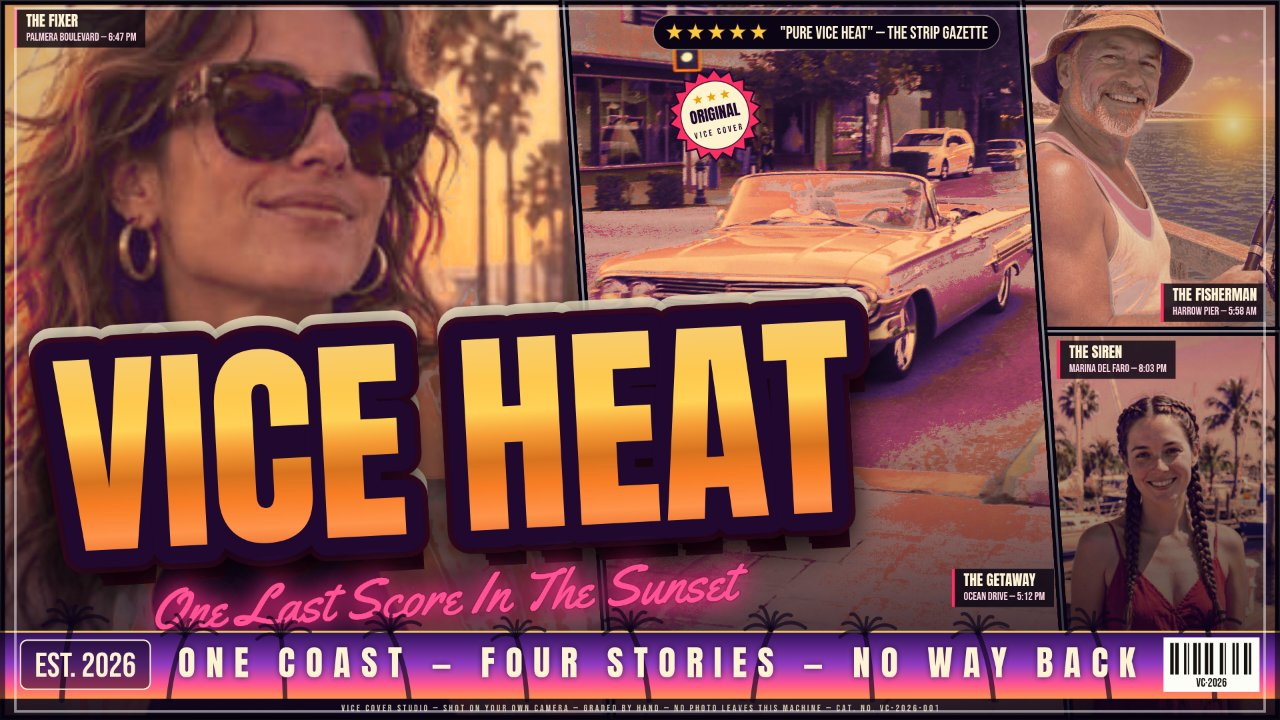
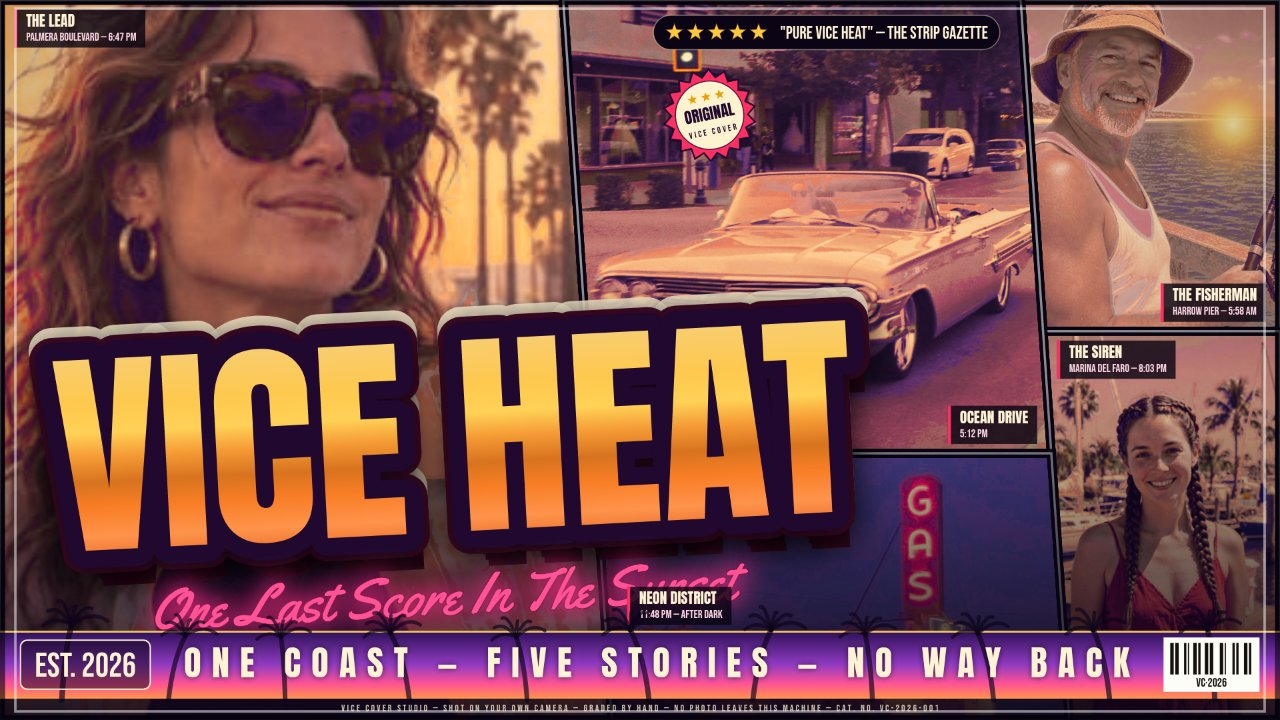
Round 49: Cast Cover gains its fifth panel — the neon GAS station returns
The middle column splits at 680/1080: cruiser above, neon below.
The GAS blade sign is framed at the neon panel's right (scale 1.0),
clear of the title's last letters, and reads whole; the district
chip rides the panel's lower left, above the banner strip.
The cruiser's Cast grade dose halves (0.5): body detail measures
above the round-46 Grid render on local contrast and midband
detail share. Chips: heroine THE LEAD, cruiser OCEAN DRIVE —
5:12 PM (place/time, no role on a scene panel); banner now
ONE COAST — FIVE STORIES — NO WAY BACK. All skin gates hold at
their round-48 numbers; Grid renders byte-identical.

diff --git a/app/src/poster.js b/app/src/poster.js
@@ -45,7 +45,7 @@ export const LAYOUTS = {
   duo: { panels: 2, slant: 0.055, label: 'Split Duo' },
   solo: { panels: 1, slant: 0, label: 'Solo Hero' },
   grid: { panels: 5, slant: 0, label: 'Cover Grid' },
-  cast: { panels: 4, slant: 0, label: 'Cast Cover' },
+  cast: { panels: 5, slant: 0, label: 'Cast Cover' },
   mosaic: { panels: 9, slant: 0, label: 'Mosaic' },
 };
 
@@ -438,7 +438,7 @@ export const GRADES = {
  *  is a 3x3 grid of nine equal cells (the GTA V cover pattern). */
 export function panelShapes(w, h, layout) {
   if (layout === 'grid') return { shapes: gridShapes(w, h), slant: 0, count: 5 };
-  if (layout === 'cast') return { shapes: castShapes(w, h), slant: 0, count: 4 };
+  if (layout === 'cast') return { shapes: castShapes(w, h), slant: 0, count: 5 };
   if (layout === 'mosaic') return { shapes: mosaicShapes(w, h), slant: 0, count: 9 };
   const spec = LAYOUTS[layout] ?? LAYOUTS.trio;
   const n = spec.panels;
@@ -575,7 +575,18 @@ function gridShapes(w, h) {
  *  the four tile the canvas exactly.
  *  Portrait: hero across the top (46% of the height), the two
  *  portraits side by side under it, the cruiser as a wide strip
- *  along the foot. Square: the same stack with a taller hero. */
+ *  along the foot. Square: the same stack with a taller hero.
+ *  Round 49: the middle column splits across at 680/1080 of the
+ *  height and the neon station takes the lower stage as a fifth
+ *  panel — round 48's cover had dropped the Grid's one neon panel,
+ *  and with it the cover's only blue-night contrast. The split sits
+ *  below the cruiser's car (its box ends at 565/1080) with room for
+ *  the cruiser's chip on the street under the car, the hero and the
+ *  portrait column keep their proven geometry untouched, and the
+ *  cruiser's window is re-anchored (see shots.js) so the car itself
+ *  lands at the same canvas place and scale as round 48. Portrait
+ *  and square split the foot strip instead: cruiser left, neon
+ *  right, so the five-panel order holds at every aspect. */
 function castShapes(w, h) {
   const rect = (x, y, pw, ph, main) => ({
     x, y, w: pw, h: ph, main: !!main,
@@ -598,25 +609,30 @@ function castShapes(w, h) {
       };
     };
     const t = ph / h;
+    const ys = h * (680 / 1080);
+    const ts = ys / h;
     return [
       shape([[0, 0], [hw, 0], [hw + lean, h], [0, h]], true),
       shape([[cw0, 0], [w, 0], [w, ph], [cw0 + lean * t, ph]]),
       shape([[cw0 + lean * t, ph], [w, ph], [w, h], [cw0 + lean, h]]),
-      shape([[hw, 0], [cw0, 0], [cw0 + lean, h], [hw + lean, h]]),
+      shape([[hw, 0], [cw0, 0], [cw0 + lean * ts, ys], [hw + lean * ts, ys]]),
+      shape([[hw + lean * ts, ys], [cw0 + lean * ts, ys], [cw0 + lean, h], [hw + lean, h]]),
     ];
   }
   if (w < h) {
     const mh = h * 0.46;
     const ch = h * 0.3;
+    const fw = w * 0.6;
     return [rect(0, 0, w, mh, true),
       rect(0, mh, w / 2, ch), rect(w / 2, mh, w / 2, ch),
-      rect(0, mh + ch, w, h - mh - ch)];
+      rect(0, mh + ch, fw, h - mh - ch), rect(fw, mh + ch, w - fw, h - mh - ch)];
   }
   const mh = h * 0.5;
   const ch = h * 0.28;
+  const fw = w * 0.6;
   return [rect(0, 0, w, mh, true),
     rect(0, mh, w / 2, ch), rect(w / 2, mh, w / 2, ch),
-    rect(0, mh + ch, w, h - mh - ch)];
+    rect(0, mh + ch, fw, h - mh - ch), rect(fw, mh + ch, w - fw, h - mh - ch)];
 }
 
 /** Mosaic: nine equal cells in a 3x3 grid, whatever the canvas aspect —
@@ -1172,10 +1188,24 @@ function painterlyInkCanvas(px, cw, ch, expo, p) {
   return out;
 }
 
+/** Round 49: the Cast cruiser's dose. Round 48's judging found the
+ *  Cast cruiser panel posterized harder than the same photo in the
+ *  Grid's cell — at the Cast panel's tall full-height window the bold
+ *  dose (round 32) and the two hue tames flatten the car's body and
+ *  street detail the smaller cell kept. The Cast cruiser therefore
+ *  runs the dose at this factor: the bold factor itself (ramp, mix,
+ *  enrich) and the magenta/fringe tame weights all scale by it, for
+ *  this one panel in this one layout. The Grid's cruiser cell keeps
+ *  the full dose exactly, and mean-measure renders never take the
+ *  dose at all, so no panel's harmonize gains move and every other
+ *  panel renders as before. The value is set by the round-49 scan
+ *  (car-box detail measured against the round-46 render). */
+const CAST_CRUISER_DOSE = 0.5;
+
 /** A panel's photo, drawn cover-fit into its own canvas and run through the
  *  grade's gradient map. Cached per (photo, grade, panel size, framing) so
  *  repeat renders and exports stay fast. */
-export function gradedPanelCanvas(shape, photo, gradeKey, wb = null, meanMeasure = false) {
+export function gradedPanelCanvas(shape, photo, gradeKey, wb = null, meanMeasure = false, layoutKey = '') {
   const cw = Math.max(1, Math.round(shape.w));
   const ch = Math.max(1, Math.round(shape.h));
   const img = photo.img;
@@ -1191,7 +1221,14 @@ export function gradedPanelCanvas(shape, photo, gradeKey, wb = null, meanMeasure
     ? boldSpec.photos.find((n) => (photo.src ?? img.src ?? '').endsWith(n))
     : undefined;
   const boldOn = !!boldName;
-  const boldF = boldOn ? (boldSpec.dose?.[boldName] ?? 1) : 0;
+  let boldF = boldOn ? (boldSpec.dose?.[boldName] ?? 1) : 0;
+  // The Cast cruiser's reduced dose (see CAST_CRUISER_DOSE above):
+  // one panel, one layout — the tame weights below scale by the
+  // same factor, and the panel's cache key already carries boldF,
+  // so the reduced render caches apart from the full-dose one.
+  const castCruiser = boldOn && layoutKey === 'cast' && boldName === 'cruiser.jpg';
+  if (castCruiser) boldF = Math.min(boldF, CAST_CRUISER_DOSE);
+  const tameScale = castCruiser ? CAST_CRUISER_DOSE : 1;
   const key = [img.__vcId, gradeKey, cw, ch,
     (photo.zoom ?? 1).toFixed(3), (photo.ox ?? 0).toFixed(3), (photo.oy ?? 0.55).toFixed(3),
     photo.flip ? 'f' : '',
@@ -1591,7 +1628,7 @@ export function gradedPanelCanvas(shape, photo, gradeKey, wb = null, meanMeasure
                 if (nw > mw) mw = nw;
               }
               if (mw > 0) {
-                const nh0 = hue + ((360 - hue) + magTame.target) * magTame.angle * mw;
+                const nh0 = hue + ((360 - hue) + magTame.target) * magTame.angle * mw * tameScale;
                 const nh = nh0 >= 360 ? nh0 - 360 : nh0;
                 // Rebuild at the new hue with the same max and chroma:
                 // saturation and value are preserved by construction.
@@ -1641,7 +1678,8 @@ export function gradedPanelCanvas(shape, photo, gradeKey, wb = null, meanMeasure
                   * smoothstep(0.24, 0.32, sat) * (1 - smoothstep(0.58, 0.68, sat))
                   * smoothstep(0.46, 0.56, mx / 255)
                   * (1 - smoothstep(0.07, 0.13, (ng - nb) / mx))
-                  * smoothstep(0.12, 0.3, fringeGate[rowBase + x]);
+                  * smoothstep(0.12, 0.3, fringeGate[rowBase + x])
+                  * tameScale;
                 if (fw > 0) {
                   const arc = hue >= 346
                     ? (360 - hue) + fringeTame.target
@@ -1698,12 +1736,12 @@ export function gradedPanelCanvas(shape, photo, gradeKey, wb = null, meanMeasure
 }
 
 /** Draws one graded photo panel, clipped to the panel polygon. */
-export function drawPanelPhoto(ctx, shape, photo, gradeKey, wb = null) {
+export function drawPanelPhoto(ctx, shape, photo, gradeKey, wb = null, layoutKey = '') {
   if (!photo || !photo.img) return;
   ctx.save();
   tracePoly(ctx, shape.poly);
   ctx.clip();
-  ctx.drawImage(gradedPanelCanvas(shape, photo, gradeKey, wb), shape.x, shape.y);
+  ctx.drawImage(gradedPanelCanvas(shape, photo, gradeKey, wb, false, layoutKey), shape.x, shape.y);
   ctx.restore();
 }
 
@@ -2015,21 +2053,28 @@ const PANEL_CAPTIONS = [
   ['MARINA DEL FARO', '8:03 PM — SMILING AT THE STORM'],
 ];
 
-// Role chips for the Cast layout's four panels, in cast order — the
-// complete system, one role per panel, each name born from what its
-// photo actually shows (round 45's lesson: a half-mixed system of
-// roles and places read as half-hearted, and a role the image does
-// not support reads as pasted on). The heroine runs the boulevard
-// in sunglasses — the fixer. The pier man holds a fishing rod on his
-// own pier — the fisherman, literally. The marina girl smiles out
-// of the harbour dusk — the siren. The cruiser is the car the story
-// leaves in — the getaway. The sub-line keeps the Grid chips' own
-// form, place and hour, so the role sits on the same furniture.
+// Chips for the Cast layout's five panels, in cast order (round 49
+// rework of round 48's set). The rule the set now follows, learned
+// from the round-48 judging: a PORTRAIT panel carries a role, and
+// the role must be born from what its photo actually shows (round
+// 45's lesson — a role the image does not support reads as pasted
+// on); a SCENE panel carries no role at all, only its place and
+// hour in the Grid chips' own form. The heroine's role is billing,
+// not biography: she holds the cover's largest panel, so she is
+// THE LEAD — the one claim the composition itself proves. The pier
+// man holds a fishing rod on his own pier — the fisherman,
+// literally. The marina girl smiles out of the harbour dusk — the
+// siren. The cruiser stands parked on Ocean Drive at 5:12 PM, so
+// its chip says exactly that and nothing more; the neon station
+// keeps the Grid's own district chip. The sub-line keeps the Grid
+// chips' form, place and hour, so every chip sits on the same
+// furniture.
 const CAST_CAPTIONS = [
-  ['THE FIXER', 'PALMERA BOULEVARD — 6:47 PM'],
+  ['THE LEAD', 'PALMERA BOULEVARD — 6:47 PM'],
   ['THE FISHERMAN', 'HARROW PIER — 5:58 AM'],
   ['THE SIREN', 'MARINA DEL FARO — 8:03 PM'],
-  ['THE GETAWAY', 'OCEAN DRIVE — 5:12 PM'],
+  ['OCEAN DRIVE', '5:12 PM'],
+  ['NEON DISTRICT', '11:48 PM — AFTER DARK'],
 ];
 
 function rr(ctx, x, y, w, h, r) {
@@ -2206,28 +2251,43 @@ function drawPanelChips(ctx, shapes, w, h, layoutKey) {
     const buried = w > h && !!shapes[i].chipLow;
     // The Cast cruiser's chip (round 48): the scene panel's top is
     // the review pill's ground and its left flank is the title's, so
-    // THE GETAWAY drops to the panel's lower right instead — the
-    // street below the car, above the banner strip, clamped inside
-    // the panel's slanted right edge like every other chip.
+    // the chip drops to the panel's lower right instead — the
+    // street below the car, clamped inside the panel's slanted
+    // right edge like every other chip. Round 49: the panel now
+    // ends at the middle column's split line, so the chip rides the
+    // panel's own foot (the street strip the split leaves under the
+    // car) instead of a fixed canvas height, with a bottom clamp
+    // against the split edge below.
     const castLow = layoutKey === 'cast' && w > h && i === 3;
+    // The Cast neon chip (round 49): every corner of the fifth
+    // panel is spoken for — the title hangs over its top-left, the
+    // GAS sign the panel is framed around owns its top-right, the
+    // banner strip owns its foot — so the district chip rides the
+    // panel's lower left instead, over the station's dark trees,
+    // just above the banner strip and clear of the script's tail.
+    const castNeon = layoutKey === 'cast' && w > h && i === 4;
     // The Cast pier chip (round 48): the portrait column is narrow,
     // so a top-left chip there would sit across the fisherman's hat
     // and forehead — his panel's one crowded corner. THE FISHERMAN
     // instead rides the panel's lower right, over the open sea
     // beside his rod, clear of the face above and the divider below.
     const castSea = layoutKey === 'cast' && w > h && i === 1;
-    let x = i === 3 || castSea
-      ? shapes[i].x + shapes[i].w - chipW - w * 0.011
-      : (buried
+    let x = castNeon
+      ? shapes[i].x + w * 0.026
+      : (i === 3 || castSea
         ? shapes[i].x + shapes[i].w - chipW - w * 0.011
-        : shapes[i].x + w * 0.011);
-    let y = castLow
-      ? h * 0.79
-      : (castSea
-        ? shapes[i].y + shapes[i].h - chipH - h * 0.013
         : (buried
-          ? shapes[i].y + shapes[i].h * 0.6
-          : shapes[i].y + h * 0.013));
+          ? shapes[i].x + shapes[i].w - chipW - w * 0.011
+          : shapes[i].x + w * 0.011));
+    let y = castNeon
+      ? h * 0.876 - chipH - h * 0.008
+      : (castLow
+        ? shapes[i].y + shapes[i].h - chipH - h * 0.013
+        : (castSea
+          ? shapes[i].y + shapes[i].h - chipH - h * 0.013
+          : (buried
+            ? shapes[i].y + shapes[i].h * 0.6
+            : shapes[i].y + h * 0.013)));
     // Round 19: the landscape Grid's panels are parallelograms now, so
     // a chip parked off the bounding box can hang over a slanted edge
     // onto the neighbouring panel (the marina cell's top-left corner
@@ -2243,13 +2303,14 @@ function drawPanelChips(ctx, shapes, w, h, layoutKey) {
     const spanR = polySpanAtX(shapes[i].poly, x + chipW);
     if (spanL) y = Math.max(y, spanL.top + mY);
     if (spanR) y = Math.max(y, spanR.top + mY);
-    if (i === 3 || buried || castSea) {
+    if (i === 3 || buried || castSea || castNeon) {
       const spanT = polySpanAtY(shapes[i].poly, y);
       const spanB = polySpanAtY(shapes[i].poly, y + chipH);
       if (spanT) x = Math.min(x, spanT.right - chipW - mX);
       if (spanB) x = Math.min(x, spanB.right - chipW - mX);
     }
     if (buried && spanR) y = Math.min(y, spanR.bot - chipH - mY);
+    if (castLow && spanR) y = Math.min(y, spanR.bot - chipH - mY);
     ctx.fillStyle = 'rgba(8, 4, 18, 0.8)';
     ctx.fillRect(x, y, chipW, chipH);
     ctx.fillStyle = '#ff2e63';
@@ -2365,12 +2426,11 @@ function drawBannerStrip(ctx, w, h, state) {
   // letterspaced capitals, fitted to the space BETWEEN the chip and
   // the barcode and centred in that span — on a narrow canvas the
   // height-scaled chip and barcode would otherwise eat the line's
-  // first and last letters. The Cast cover counts its own panels:
-  // four stories, not five — the copy stays true to the cover it
-  // rides on.
-  const line = state.layout === 'cast'
-    ? 'ONE COAST — FOUR STORIES — NO WAY BACK'
-    : BANNER_LINE;
+  // first and last letters. The Cast cover counts its own panels —
+  // round 48's four, round 49's five again — and the copy stays
+  // true to the cover it rides on, so the Cast line is the banner
+  // line itself.
+  const line = BANNER_LINE;
   const midL = estX + estW + w * 0.02;
   const midR = bcX - w * 0.02;
   let size = Math.round(sh * 0.54);
@@ -2732,7 +2792,7 @@ export function drawPoster(canvas, state) {
   for (let i = 0; i < shapes.length; i++) {
     const photo = panelPhoto(state, i);
     if (photo && photo.img) {
-      drawPanelPhoto(ctx, shapes[i], photo, state.grade, wbGains ? wbGains[i] : null);
+      drawPanelPhoto(ctx, shapes[i], photo, state.grade, wbGains ? wbGains[i] : null, state.layout);
     } else {
       ctx.save();
       tracePoly(ctx, shapes[i].poly);

diff --git a/app/src/shots.js b/app/src/shots.js
@@ -150,20 +150,45 @@ export async function runShot(shot, query, helpers) {
   const cruiserFrame = (showcaseScene && third.endsWith('cruiser.jpg'))
     ? { zoom: 1.65, ox: -0.24, oy: -0.16 }
     : undefined;
-  // The Cast cruiser framing (round 48): the scene panel is tall and
-  // full-height, and the window (zoom 1.28) is raised so the whole
-  // car — nose to fin — rides in the strip ABOVE the title band,
-  // the mirror of the Grid cell's trick of holding the car in the
-  // strip below the letters: the car's established box stands at
-  // canvas y ~255-565 with the seal just above its roofline, and
-  // the visible car area measures ~134k px, about twice what the
-  // Grid cell showed from behind the lettering (~68k). The street
-  // and the title fill the panel below the car. The portrait strip
-  // centres a gentler window on the car instead.
+  // The Cast cruiser framing (round 48): the scene panel is tall,
+  // and the window (zoom 1.28) is raised so the whole car — nose to
+  // fin — rides in the strip ABOVE the title band, the mirror of
+  // the Grid cell's trick of holding the car in the strip below the
+  // letters: the car's established box stands at canvas y ~255-565
+  // with the seal just above its roofline, and the visible car area
+  // measures ~134k px, about twice what the Grid cell showed from
+  // behind the lettering (~68k). Round 49: the panel now ends at
+  // the middle column's split line (680/1080) with the neon panel
+  // below it, and the shorter panel's bounding box is narrower
+  // too (the slanted right edge travels less), so the window is
+  // re-anchored — zoom 1.3274, ox 0.5031, oy 0.1257 in place of
+  // 1.28 / 0.44 / -0.78 — to land the drawn image at the identical
+  // canvas offset and scale: the car at exactly round 48's place
+  // and size, its street strip and chip ground kept above the
+  // split. The portrait strip centres a gentler window on the car
+  // instead.
   const cruiserCastFrame = (state.layout === 'cast' && state.grade === 'blockbuster' && third.endsWith('cruiser.jpg'))
     ? (state.size === '1080x1350'
       ? { zoom: 1.15, ox: 0.74, oy: -0.03 }
-      : { zoom: 1.28, ox: 0.44, oy: -0.78 })
+      : { zoom: 1.3274, ox: 0.5031, oy: 0.1257 })
+    : undefined;
+  // The Cast neon framing (round 49): the fifth panel takes the
+  // middle column's lower stage. The sign's place in it is chosen
+  // against the lettering, not the panel: the title's last letters
+  // hang over the panel's top-left down to ~y 800 and its ink ends
+  // at ~x 1310, so the blade sign (established photo box: letters
+  // x 0.516-0.663, y 0.070-0.329) is framed at the panel's right,
+  // clear of the title, the script and the banner — at scale 1.0
+  // (zoom 1.4357, pinned to the photo's top) it lands at canvas
+  // ~x 1330-1480, y 728-905, larger than the Grid's cell showed it
+  // (0.84), with the station's roof and medallion below it and the
+  // pumps at the panel's right edge. The portrait cell is smaller
+  // and wider, so it takes a gentler centred window on the sign
+  // instead.
+  const neonCastFrame = (state.layout === 'cast' && state.grade === 'blockbuster' && fourth.endsWith('neon.jpg'))
+    ? (state.size === '1080x1350'
+      ? { zoom: 1.0, ox: -0.35, oy: 0.9 }
+      : { zoom: 1.4357, ox: 0.43, oy: 1 })
     : undefined;
   // The Cast pier framing (round 48): the portrait column is
   // narrower than the Grid's pier cell, so the window zooms to 1.25
@@ -212,10 +237,12 @@ export async function runShot(shot, query, helpers) {
   // marina portrait, cruiser scene: the marina takes panel 2 (at the
   // renderer's default framing exactly; its Cast cell is built to
   // the size that frame was proven at in the Grid) and the cruiser
-  // takes panel 3 at its Cast frame above.
+  // takes panel 3 at its Cast frame above. Round 49 adds the fifth:
+  // the neon station takes panel 4 at its Cast frame.
   if (state.layout === 'cast') {
     put(2, fifth, imgE);
     put(3, third, imgC, cruiserCastFrame);
+    put(4, fourth, imgD, neonCastFrame);
   }
   // Mosaic's last row: second showings of the first three photos, sharing
   // their Image objects so the renderer mirrors them like the editor does.
